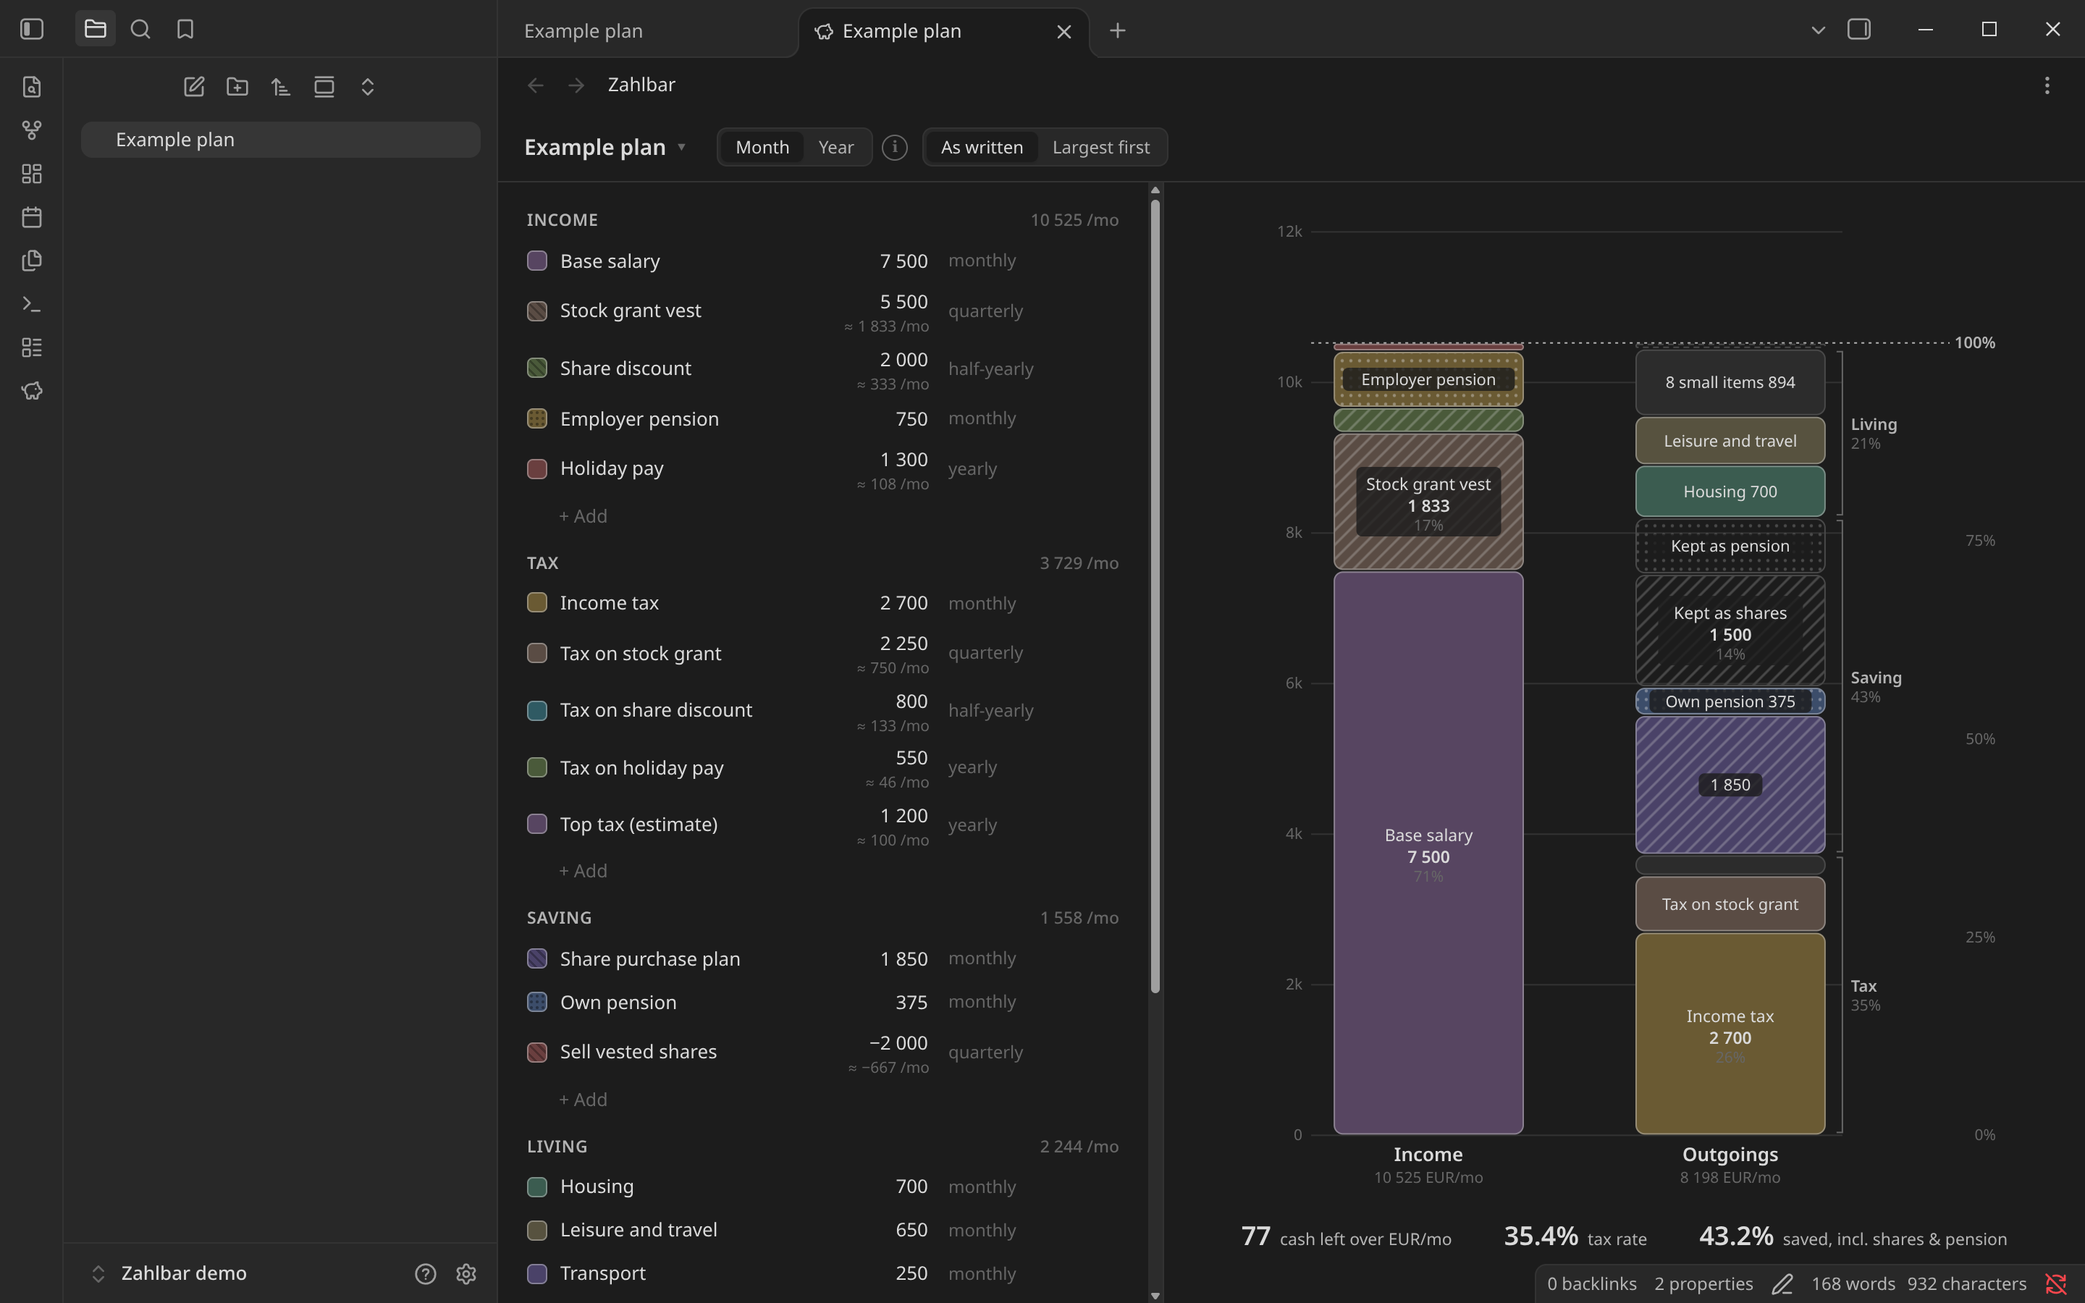
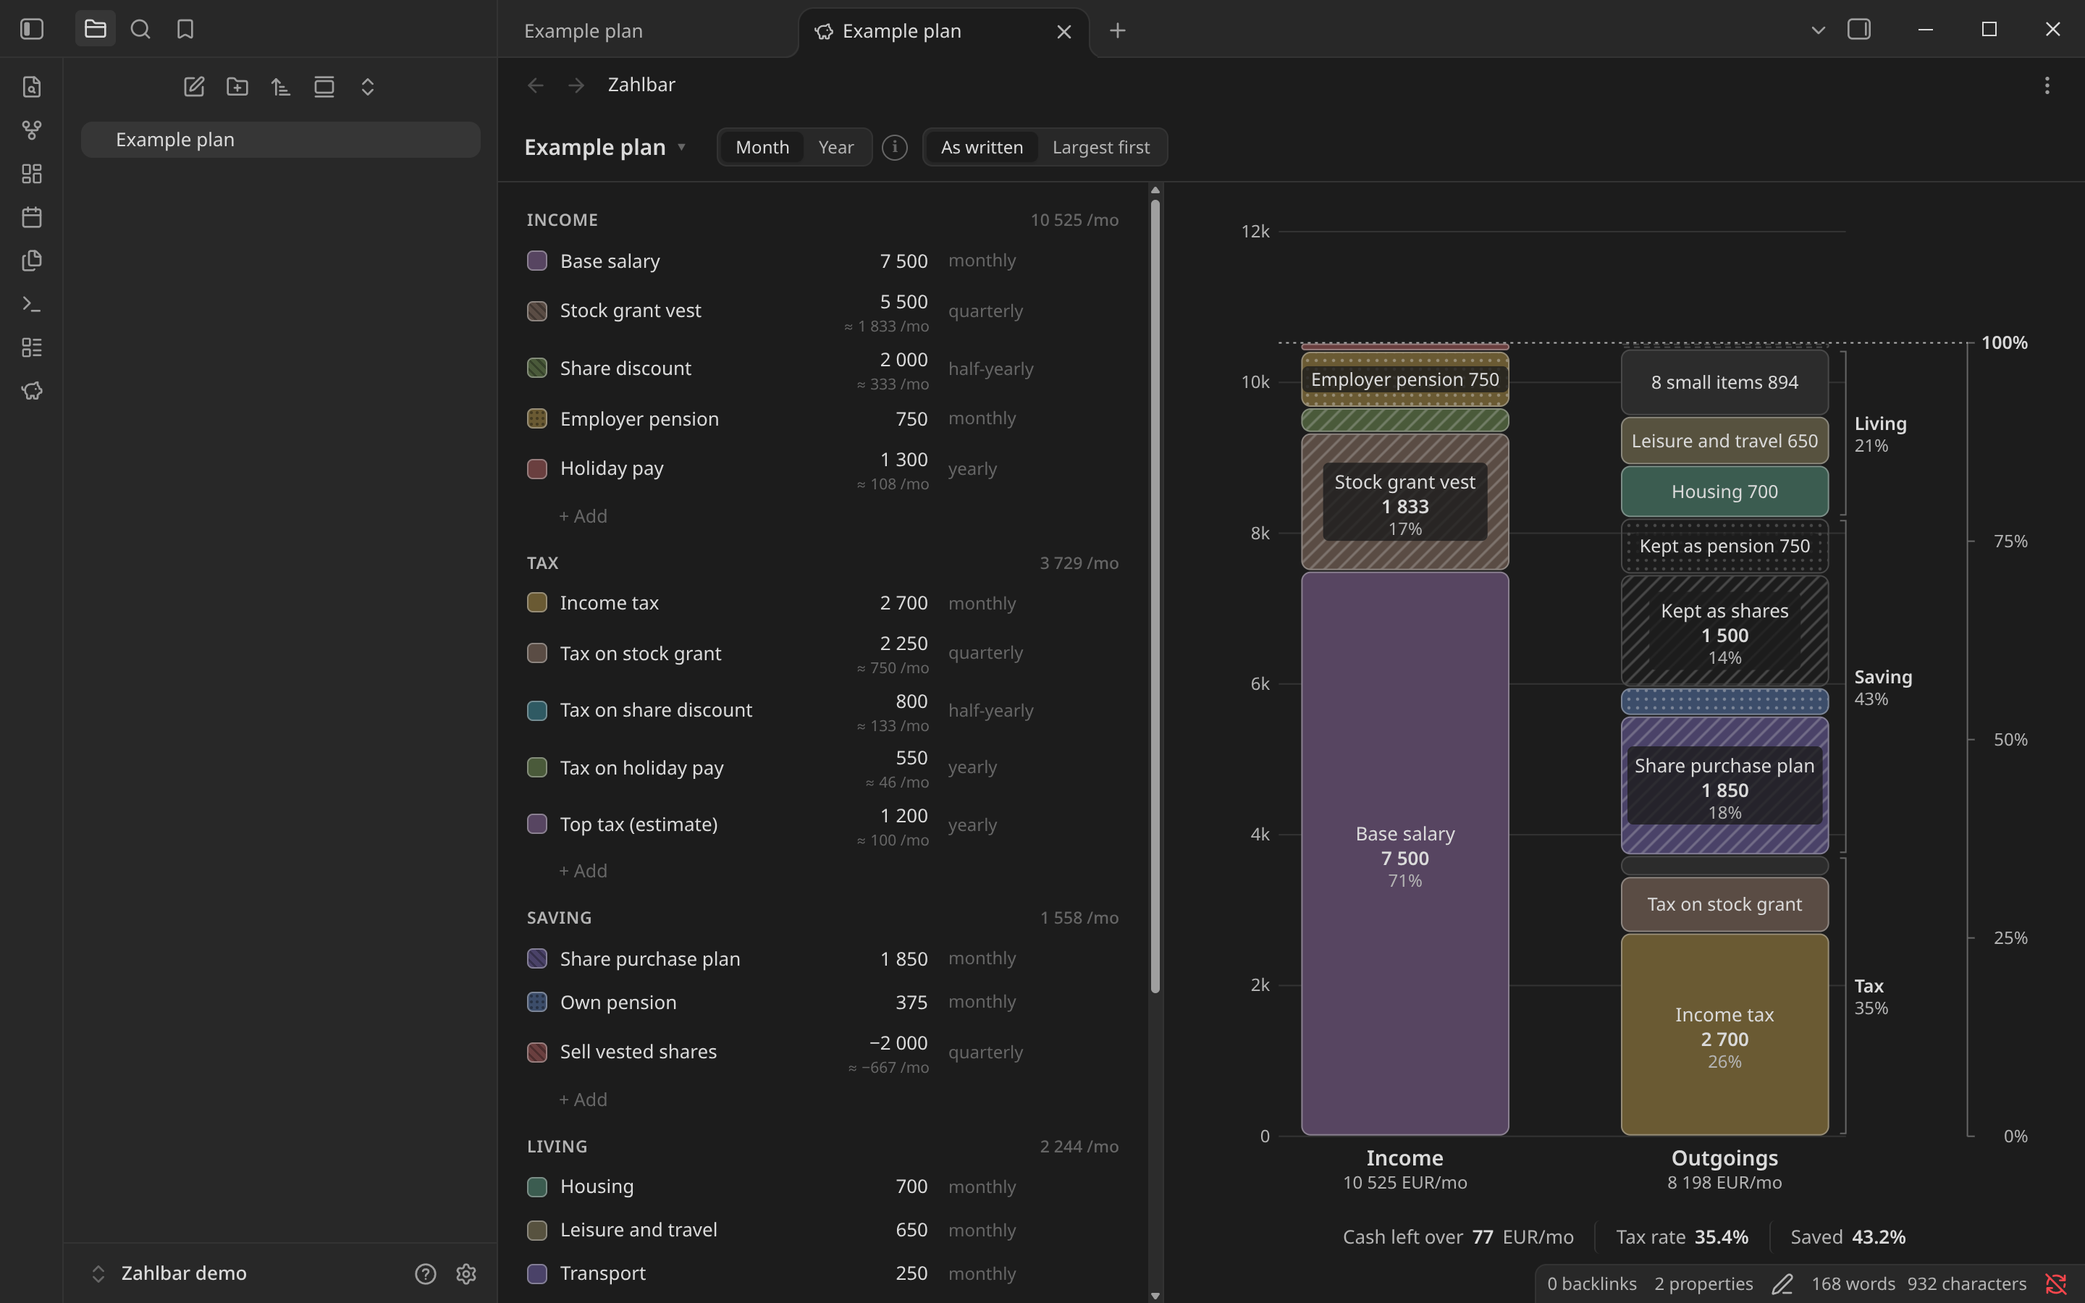
Quieter metrics line, group and metric hover highlights, larger chart text, % axis ticks, labels measured in the real font

diff --git a/src/obsidian/chart.ts b/src/obsidian/chart.ts
@@ -5,7 +5,15 @@ import { borderVar, fillVar } from "./colors";
 import { s } from "./dom";
 
 /** Segments thinner than this (px) are merged with their thin neighbours into "N small items". */
-const MIN_LABEL = 22;
+const MIN_LABEL = 24;
+
+const measureCtx = document.createElement("canvas").getContext("2d");
+/** Width of a label in the chart's real font, so labels fit in any theme. Falls back to an estimate. */
+function textWidth(text: string, px: number, bold: boolean, family: string): number {
+  if (!measureCtx) return text.length * px * 0.55;
+  measureCtx.font = `${bold ? 600 : 400} ${px}px ${family}`;
+  return measureCtx.measureText(text).width;
+}
 
 export type Texture = "none" | "lines" | "dots";
 export const textureOf = (form: Entry["form"]): Texture => (form === "shares" ? "lines" : form === "pension" ? "dots" : "none");
@@ -62,9 +70,10 @@ function mergeSmall(segs: Seg[], k: number): Seg[] {
 const GROUP_NAMES: Record<string, string> = { tax: "Tax", saving: "Saving", living: "Living", left: "Left over" };
 
 /** Draws both bars into `svg` at its real pixel size. Bars fill bottom-up, first entry on the baseline. */
-export function drawChart(svg: SVGSVGElement, input: ChartInput, W: number, Hbox: number): void {
+/** Draws both bars into `svg` at its real pixel size. Returns the segment ids in each group, for highlighting. */
+export function drawChart(svg: SVGSVGElement, input: ChartInput, W: number, Hbox: number): Record<string, string[]> {
   svg.replaceChildren();
-  if (W < 120 || Hbox < 120) return;
+  if (W < 120 || Hbox < 120) return {};
   const { totals: T, view, uid } = input;
   const visible = input.entries.filter((e) => !e.hidden);
   const toSeg = (e: Entry): Seg => ({ kind: "entry", ids: [entryId(e)], v: shown(e, view), name: e.name, color: input.colorOf(e), texture: textureOf(e.form), group: e.section });
@@ -90,13 +99,14 @@ export function drawChart(svg: SVGSVGElement, input: ChartInput, W: number, Hbox
   s2 = s2.filter((x) => x.v > 0);
 
   const top = 22, bottom = Hbox - 40, H = bottom - top;
-  const bw = Math.max(80, Math.min(170, W / 4.6));
+  const bw = Math.max(80, Math.min(180, W / 4.2));
   const gap = Math.max(32, Math.min(140, W * 0.13));
   // lay out from the axis labels to the % labels, then centre that block in the available width
-  const content = 40 + 16 + bw + gap + bw + 8 + 110;
+  const content = 40 + 16 + bw + gap + bw + 8 + 130;
   const axL = 40 + Math.max(0, (W - content) / 2);
   const b1x = axL + 16, b2x = b1x + bw + gap, brx = b2x + bw + 8;
-  const pctX = Math.min(W, brx + 110);
+  const pctX = Math.min(W, brx + 130);
+  const pctAxis = pctX - 42;
   const T1 = s1.reduce((a, x) => a + x.v, 0), T2 = s2.reduce((a, x) => a + x.v, 0);
   const M = Math.max(T1, T2, 1);
   const step = niceStep(M, H);
@@ -124,25 +134,33 @@ export function drawChart(svg: SVGSVGElement, input: ChartInput, W: number, Hbox
   // index × step rather than repeated addition, which drifts (0.1 + 0.2 = 0.30000000000000004)
   for (let i = 0, v = 0; v <= axisMax + step / 2; i++, v = i * step) {
     svg.append(s("line", { class: "zahlbar-grid", x1: axL, x2: brx + 4, y1: y(v), y2: y(v) }));
-    svg.append(s("text", { class: "zahlbar-faint", x: axL - 6, y: y(v) + 3.5, "text-anchor": "end" }, formatTick(v)));
+    svg.append(s("text", { class: "zahlbar-faint", x: axL - 6, y: y(v) + 4, "text-anchor": "end" }, formatTick(v)));
   }
   if (T.income > 0) {
-    for (let p = 0; p <= (axisMax / T.income) * 100 + 0.1; p += 25)
-      svg.append(s("text", { class: p === 100 ? "zahlbar-bold zahlbar-muted zahlbar-small" : "zahlbar-faint", x: pctX, y: y((p / 100) * T.income) + 3.5, "text-anchor": "end" }, `${p}%`));
-    svg.append(s("line", { class: "zahlbar-ref", x1: axL, x2: pctX - 32, y1: y(T.income), y2: y(T.income) }));
+    // the % scale doesn't line up with the kr grid, so it gets its own axis line and short ticks instead of gridlines
+    const pctTop = Math.floor((axisMax / T.income) * 4) * 25;
+    svg.append(s("line", { class: "zahlbar-axis", x1: pctAxis, x2: pctAxis, y1: y(0), y2: y((pctTop / 100) * T.income) }));
+    for (let p = 0; p <= pctTop; p += 25) {
+      const py = y((p / 100) * T.income);
+      svg.append(s("line", { class: "zahlbar-axis", x1: pctAxis, x2: pctAxis + 5, y1: py, y2: py }));
+      svg.append(s("text", { class: p === 100 ? "zahlbar-bold zahlbar-small" : "zahlbar-faint", x: pctX, y: py + 4, "text-anchor": "end" }, `${p}%`));
+    }
+    svg.append(s("line", { class: "zahlbar-ref", x1: axL, x2: pctAxis, y1: y(T.income), y2: y(T.income) }));
   }
 
   const per = `${input.currency ?? ""}${view === "month" ? "/mo" : "/y"}`;
   const title = (x: number, name: string, sub: string) => {
-    svg.append(s("text", { class: "zahlbar-bold zahlbar-title", x: x + bw / 2, y: bottom + 18, "text-anchor": "middle" }, name));
-    svg.append(s("text", { class: "zahlbar-faint", x: x + bw / 2, y: bottom + 33, "text-anchor": "middle" }, sub));
+    svg.append(s("text", { class: "zahlbar-bold zahlbar-title", x: x + bw / 2, y: bottom + 20, "text-anchor": "middle" }, name));
+    svg.append(s("text", { class: "zahlbar-faint", x: x + bw / 2, y: bottom + 36, "text-anchor": "middle" }, sub));
   };
   title(b1x, "Income", `${formatRounded(T.income)} ${per}`);
   // money taken out of saving isn't spending less, so the title only counts what goes out
   const goingOut = visible.filter((e) => e.section !== "income" && e.amount > 0).reduce((a, e) => a + shown(e, view), 0);
   title(b2x, "Outgoings", `${formatRounded(goingOut)} ${per}`);
 
-  const fits = (t: string) => t.length * 6.4 < bw - 10;
+  const family = getComputedStyle(svg).getPropertyValue("--font-interface").trim() || getComputedStyle(svg).fontFamily || "sans-serif";
+  const width = (t: string, px = 13, bold = false) => textWidth(t, px, bold, family);
+  const fits = (t: string, px = 13) => width(t, px) < bw - 12;
   const bar = (segs: Seg[], x: number) => {
     let acc = 0;
     for (const sg of segs) {
@@ -164,16 +182,18 @@ export function drawChart(svg: SVGSVGElement, input: ChartInput, W: number, Hbox
       const pct = T.income > 0 ? Math.round((sg.v / T.income) * 100) : 0;
       const err = sg.kind === "short" ? "zahlbar-error" : "";
       const plate = sg.texture !== "none";
-      if (gh >= 50 && fits(sg.name)) {
-        if (plate) g.append(s("rect", { class: "zahlbar-plate", x: cx - 50, y: gy + gh / 2 - 24, width: 100, height: 48, rx: 4 }));
-        g.append(s("text", { x: cx, y: gy + gh / 2 - 8, "text-anchor": "middle", class: err }, sg.name));
-        g.append(s("text", { x: cx, y: gy + gh / 2 + 7, "text-anchor": "middle", class: `zahlbar-bold ${err}` }, formatRounded(sg.v)));
-        g.append(s("text", { x: cx, y: gy + gh / 2 + 20, "text-anchor": "middle", class: "zahlbar-faint" }, `${pct}%`));
-      } else if (gh >= 17) {
+      if (gh >= 56 && fits(sg.name)) {
+        const pw = Math.min(bw - 8, Math.max(width(sg.name), width(formatRounded(sg.v), 13, true), 50) + 16);
+        if (plate) g.append(s("rect", { class: "zahlbar-plate", x: cx - pw / 2, y: gy + gh / 2 - 27, width: pw, height: 54, rx: 4 }));
+        g.append(s("text", { x: cx, y: gy + gh / 2 - 9, "text-anchor": "middle", class: err }, sg.name));
+        g.append(s("text", { x: cx, y: gy + gh / 2 + 8, "text-anchor": "middle", class: `zahlbar-bold ${err}` }, formatRounded(sg.v)));
+        g.append(s("text", { x: cx, y: gy + gh / 2 + 23, "text-anchor": "middle", class: "zahlbar-faint" }, `${pct}%`));
+      } else if (gh >= 20) {
         let t = `${sg.name} ${formatRounded(sg.v)}`;
-        if (!fits(t)) t = fits(sg.name) ? sg.name : formatRounded(sg.v);
-        if (plate) g.append(s("rect", { class: "zahlbar-plate", x: cx - t.length * 3.4 - 5, y: gy + gh / 2 - 8, width: t.length * 6.8 + 10, height: 16, rx: 4 }));
-        g.append(s("text", { x: cx, y: gy + gh / 2 + 4, "text-anchor": "middle", class: `zahlbar-small ${err}` }, t));
+        if (!fits(t, 12.5)) t = fits(sg.name, 12.5) ? sg.name : formatRounded(sg.v);
+        const tw = width(t, 12.5);
+        if (plate) g.append(s("rect", { class: "zahlbar-plate", x: cx - tw / 2 - 6, y: gy + gh / 2 - 9, width: tw + 12, height: 18, rx: 4 }));
+        g.append(s("text", { x: cx, y: gy + gh / 2 + 4.5, "text-anchor": "middle", class: `zahlbar-small ${err}` }, t));
       }
       svg.append(g);
     }
@@ -185,18 +205,25 @@ export function drawChart(svg: SVGSVGElement, input: ChartInput, W: number, Hbox
 
   // brackets marking the groups on the Outgoings bar
   let acc = 0;
-  const groups: Array<{ key: string; a: number; v: number }> = [];
+  const groups: Array<{ key: string; a: number; v: number; ids: string[] }> = [];
   for (const sg of s2) {
     const last = groups[groups.length - 1];
-    if (!last || last.key !== sg.group) groups.push({ key: sg.group, a: acc, v: 0 });
+    if (!last || last.key !== sg.group) groups.push({ key: sg.group, a: acc, v: 0, ids: [] });
     groups[groups.length - 1]!.v += sg.v;
+    groups[groups.length - 1]!.ids.push(...sg.ids);
     acc += sg.v;
   }
   for (const g of groups) {
     const y0 = y(g.a + g.v) + 2, y1 = y(g.a) - 2;
     if (y1 - y0 < 10) continue;
+    // the area right of the bar, around the bracket and its label, highlights the whole group on hover
+    svg.append(s("rect", { class: "zahlbar-grouphit", x: b2x + bw + 2, y: y0 - 1, width: Math.max(0, pctAxis - 6 - (b2x + bw + 2)), height: y1 - y0 + 2, "data-ids": g.ids.join(" ") }));
     svg.append(s("path", { class: "zahlbar-bracket", d: `M${brx} ${y0} h4 V${y1} h-4` }));
-    svg.append(s("text", { x: brx + 10, y: (y0 + y1) / 2 - 2, class: "zahlbar-bold zahlbar-muted zahlbar-small" }, GROUP_NAMES[g.key] ?? g.key));
-    svg.append(s("text", { x: brx + 10, y: (y0 + y1) / 2 + 11, class: "zahlbar-faint" }, `${T.income > 0 ? Math.round((g.v / T.income) * 100) : 0}%`));
+    svg.append(s("text", { x: brx + 10, y: (y0 + y1) / 2 - 2, class: "zahlbar-bold zahlbar-small" }, GROUP_NAMES[g.key] ?? g.key));
+    svg.append(s("text", { x: brx + 10, y: (y0 + y1) / 2 + 13, class: "zahlbar-faint" }, `${T.income > 0 ? Math.round((g.v / T.income) * 100) : 0}%`));
   }
+  const out: Record<string, string[]> = {};
+  for (const g of groups) out[g.key] = g.ids;
+  if (T.cashLeft < -0.5) out["short"] = ["short"];
+  return out;
 }

diff --git a/src/obsidian/view.ts b/src/obsidian/view.ts
@@ -48,6 +48,8 @@ export class ZahlbarView extends ItemView implements ListHost {
   /** segments to keep highlighted while a breakdown is open */
   private pinned: Set<string> | null = null;
   private frozen = false;
+  /** segment ids per group (tax, saving, living, left, short) from the last chart draw */
+  private groupIds: Record<string, string[]> = {};
   /** when the frozen breakdown was closed, so the click that closed it doesn't also open a new one */
   private unfrozenAt = 0;
   private pressClosed = false;
@@ -490,7 +492,7 @@ export class ZahlbarView extends ItemView implements ListHost {
   private drawChart(): void {
     if (!this.ui || !this.file || !this.plan.flagged) return;
     const box = this.ui.chartBox;
-    drawChart(this.ui.svg, { entries: this.plan.entries, totals: totals(this.plan.entries, this.view), view: this.view, sort: this.sort, uid: this.uid, colorOf: this.colorOf, currency: this.plan.currency },
+    this.groupIds = drawChart(this.ui.svg, { entries: this.plan.entries, totals: totals(this.plan.entries, this.view), view: this.view, sort: this.sort, uid: this.uid, colorOf: this.colorOf, currency: this.plan.currency },
       box.clientWidth, box.clientHeight);
     this.applyHover();
   }
@@ -498,13 +500,26 @@ export class ZahlbarView extends ItemView implements ListHost {
   private renderMetrics(): void {
     const t = totals(this.plan.entries, this.view);
     const pct = (n: number) => `${(n * 100).toFixed(1)}%`;
-    const metric = (value: string, label: string, neg = false) =>
-      h("div", { class: `zahlbar-metric${neg ? " is-neg" : ""}` }, h("b", {}, value), h("span", {}, label));
+    // label, value, unit, and the groups it counts, which light up on hover
+    const metric = (label: string, value: string, unit: string, groups: string[], neg = false, title?: string) => {
+      const el = h("div", { class: `zahlbar-metric${neg ? " is-neg" : ""}`, title },
+        h("span", { class: "zahlbar-metric-label" }, label), h("b", {}, value), unit ? h("span", { class: "zahlbar-metric-unit" }, unit) : null);
+      el.addEventListener("pointerenter", () => this.pinGroups(groups));
+      el.addEventListener("pointerleave", () => this.pinGroups(null));
+      return el;
+    };
     this.ui.metrics.replaceChildren(
-      metric(formatRounded(t.cashLeft), `cash left over ${this.unit()}`, t.cashLeft < -0.5),
-      metric(pct(t.taxRate), "tax rate"),
-      metric(pct(t.savedRate), "saved, incl. shares & pension")
+      metric("Cash left over", formatRounded(t.cashLeft), this.unit(), ["left", "short"], t.cashLeft < -0.5),
+      metric("Tax rate", pct(t.taxRate), "", ["tax"]),
+      metric("Saved", pct(t.savedRate), "", ["saving", "left"], false, "Income minus tax and living, including shares and pension")
     );
+  }
+
+  /** Highlights every segment and row in the given groups, or clears it. Ignored while a breakdown is frozen. */
+  private pinGroups(groups: string[] | null): void {
+    if (this.frozen) return;
+    this.pinned = groups ? new Set(groups.flatMap((g) => this.groupIds[g] ?? [])) : null;
+    this.applyHover();
   }
 
   /** "DKK/mo", or just "/mo" when the plan has no currency */
@@ -522,7 +537,9 @@ export class ZahlbarView extends ItemView implements ListHost {
     if (!this.ui) return;
     const id = this.hoverId;
     const pinned = this.pinned;
-    this.ui.list.querySelectorAll<HTMLElement>(".zahlbar-row").forEach((r) => r.classList.toggle("is-hl", r.dataset.id === id));
+    const pinnedRows = this.pinned;
+    this.ui.list.querySelectorAll<HTMLElement>(".zahlbar-row").forEach((r) =>
+      r.classList.toggle("is-hl", pinnedRows ? pinnedRows.has(r.dataset.id ?? "") : r.dataset.id === id));
     let any = false;
     this.ui.svg.querySelectorAll(".zahlbar-seg").forEach((g) => {
       const ids = (g.getAttribute("data-ids") ?? "").split(" ");
@@ -536,6 +553,14 @@ export class ZahlbarView extends ItemView implements ListHost {
   private onChartHover(ev: PointerEvent): void {
     if (this.frozen) return;
     const { tooltip, chartBox } = this.ui;
+    const hit = (ev.target as Element).closest(".zahlbar-grouphit");
+    if (hit) {
+      tooltip.classList.remove("is-shown");
+      this.hoverId = null;
+      this.pinned = new Set((hit.getAttribute("data-ids") ?? "").split(" "));
+      this.applyHover();
+      return;
+    }
     const g = (ev.target as Element).closest(".zahlbar-seg");
     if (!g) {
       tooltip.classList.remove("is-shown");

diff --git a/styles.css b/styles.css
@@ -114,12 +114,14 @@ body.zahlbar-grabbing, body.zahlbar-grabbing * { cursor: grabbing !important; us
 .zahlbar .zahlbar-badline { background: none; border: 0; height: auto; padding: 0; font-family: var(--font-monospace); font-size: 12px; color: var(--text-error); text-align: left; }
 
 /* chart */
-.zahlbar-chart text { fill: var(--text-normal); font-size: 11.5px; font-family: var(--font-interface); }
-.zahlbar-chart .zahlbar-faint { fill: var(--text-faint); font-size: 10.5px; }
-.zahlbar-chart .zahlbar-muted { fill: var(--text-muted); }
+.zahlbar-chart text { fill: var(--text-normal); font-size: 13px; font-family: var(--font-interface); }
+.zahlbar-chart .zahlbar-faint { fill: var(--text-muted); font-size: 12px; }
 .zahlbar-chart .zahlbar-bold { font-weight: 600; }
-.zahlbar-chart .zahlbar-small { font-size: 11px; }
-.zahlbar-chart .zahlbar-title { font-size: 13px; }
+.zahlbar-chart .zahlbar-small { font-size: 12.5px; }
+.zahlbar-chart .zahlbar-title { font-size: 14.5px; }
+.zahlbar-chart .zahlbar-axis { stroke: var(--text-faint); stroke-width: 1; }
+.zahlbar-chart .zahlbar-grouphit { fill: transparent; }
+.zahlbar-chart .zahlbar-grouphit:hover { fill: var(--background-modifier-hover); }
 .zahlbar-chart .zahlbar-error { fill: var(--text-error); }
 .zahlbar-chart .zahlbar-grid { stroke: var(--background-modifier-border); stroke-width: 1; }
 .zahlbar-chart .zahlbar-ref { stroke: var(--text-muted); stroke-dasharray: 2 3; }
@@ -127,10 +129,13 @@ body.zahlbar-grabbing, body.zahlbar-grabbing * { cursor: grabbing !important; us
 .zahlbar-chart .zahlbar-plate { fill: var(--background-primary); opacity: 0.8; }
 .zahlbar-chart .zahlbar-seg { cursor: pointer; transition: opacity 0.12s; }
 .zahlbar-chart.is-dimming .zahlbar-seg:not(.is-hl) { opacity: 0.35; }
-/* bottom padding keeps the metrics clear of Obsidian's floating status bar */
-.zahlbar-metrics { display: flex; flex-wrap: wrap; justify-content: center; gap: 6px 36px; padding: 10px 22px 34px; }
-.zahlbar-metric b { font-size: 18px; font-weight: 600; margin-right: 6px; }
-.zahlbar-metric span { font-size: 11.5px; color: var(--text-muted); }
+/* one quiet line, label then value, like Obsidian's properties. Bottom padding keeps it clear of the status bar. */
+.zahlbar-metrics { display: flex; flex-wrap: wrap; justify-content: center; row-gap: 4px; padding: 10px 22px 34px; font-size: var(--font-ui-small); }
+.zahlbar-metric { display: flex; align-items: baseline; gap: 6px; padding: 3px 14px; border-left: 1px solid var(--background-modifier-border); border-radius: 4px; cursor: default; }
+.zahlbar-metric:first-child { border-left: 0; }
+.zahlbar-metric:hover { background: var(--background-modifier-hover); }
+.zahlbar-metric-label, .zahlbar-metric-unit { color: var(--text-muted); }
+.zahlbar-metric b { font-weight: 600; color: var(--text-normal); }
 .zahlbar-metric.is-neg b { color: var(--text-error); }
 .zahlbar-tooltip { position: absolute; pointer-events: none; display: none; z-index: 4; white-space: nowrap; background: var(--background-primary);
   border: 1px solid var(--background-modifier-border); box-shadow: var(--shadow-s); border-radius: 7px; padding: 6px 9px; font-size: 12px; }
